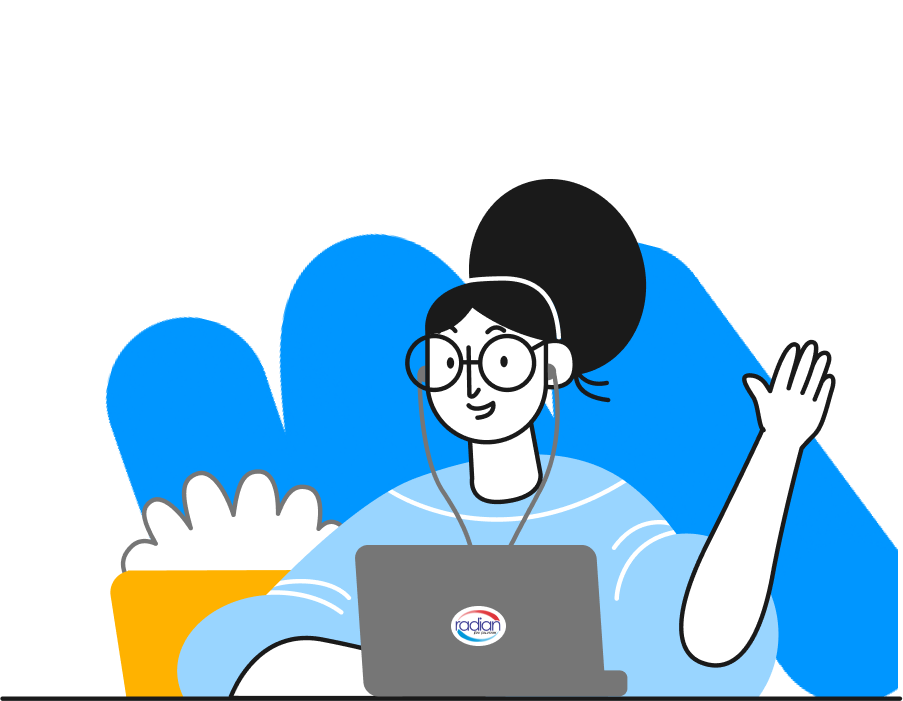
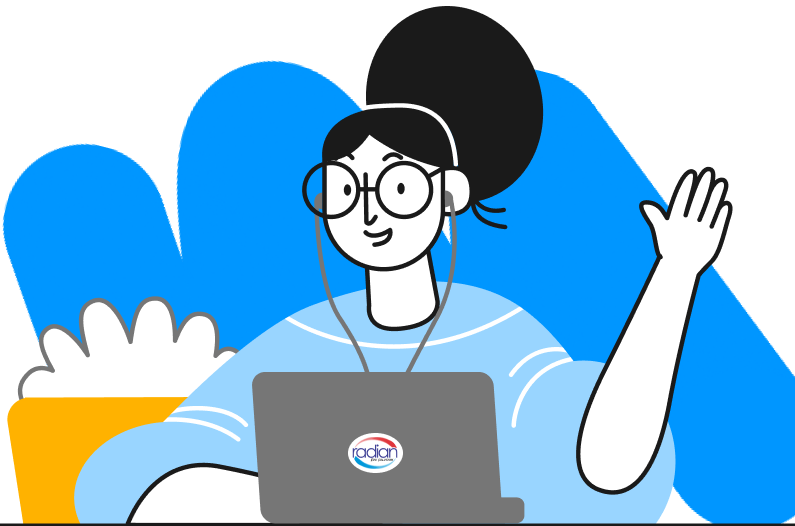
revisi product

diff --git a/resources/views/product/privat.blade.php b/resources/views/product/privat.blade.php
@@ -28,23 +28,26 @@
 <!-- navbar section end -->
 
 <!-- hero section start -->
-<section id="#" class="bg-primary">
+<section id="#" class="bg-blue-400">
     <div class="container">
         <div class="flex flex-wrap">
-            <div class="w-full self-center px-4 order-2 lg:order-1 lg:w-1/2 mb-32">
-                <h1 class="lg:text-6xl text-3xl font-bold text-white mt-32">Selamat Datang, Di Program Privat Garansi Radian.</h1>
+            <div class="w-full self-end px-4 order-2 lg:order-1 lg:w-1/2">
+                <h1 class="lg:text-6xl text-2xl font-bold text-white lg:mt-32 mt-3">Selamat Datang, Di Program Privat Garansi Radian.</h1>
                 <p class="text-lg font-normal text-white mt-9 mb-14">Les Privat bergaransi, tersedia beberapa program seperti kedokteran, PTN dan kedinasan dengan metode belajar terbaik guna Menuju Masa Depan yang Cemerlang dan Mulia.</p>
-                <a href="#pro-unggul" class="text-base font-normal text-black bg-white py-4 px-4 mb-32 rounded-lg">Uji Coba Gratis</a>
-                <a href="https://wa.me/+6281779007135?text=Halo%20radian%20%0A%0ANama%20%3A%20%0AAsal%20Kota%20%3A%20%0ASekolah%20dan%20Kelas%20%3A%20%0AOrang%20Tua%20%2F%20Siswa%20%3F%20%3A%0ASaya%20mengetahui%20program%20ini%20melalui%20website%20privatgaransi.radianedu.com%20" class="text-base font-normal text-white border border-white py-4 px-4 mb-32 rounded-lg">Lihat Program</a>
-            </div>
-
-            <div class="w-full self-end px-4 order-1 lg:order-2 lg:w-1/2">
-                <div class="relative mt-10">
-                    <img src="img/priv-hero.png" alt="" class="max-w-full max-h-full mx-auto lg:right-0">
+                <div class="flex px-2">
+                    <a href="#pro-unggul" class="lg:text-base text-sm font-normal text-black bg-white lg:py-4 py-2 lg:px-4 px-2 mb-32 mr-3 rounded-lg">Uji Coba Gratis</a>
+                    <a href="https://wa.me/+6281779007135?text=Halo%20radian%20%0A%0ANama%20%3A%20%0AAsal%20Kota%20%3A%20%0ASekolah%20dan%20Kelas%20%3A%20%0AOrang%20Tua%20%2F%20Siswa%20%3F%20%3A%0ASaya%20mengetahui%20program%20ini%20melalui%20website%20privatgaransi.radianedu.com%20" class="text-base font-normal text-white border border-white lg:py-4 py-2 lg:px-4 px-2 mb-32 rounded-lg">Lihat Program</a>
                 </div>
             </div>
+            <div class="w-full self-end px-4 order-1 lg:order-2 lg:w-1/2">
+                <div class="relative mt-10">
+                    <img src="img/priv-hero.png" alt="" class="max-w-full max-h-full w-full h-full mx-auto lg:right-0">
+                </div>
+            </div>            
         </div>
     </div>
+        
+
 </section>
 <!-- hero section end -->
 
@@ -53,7 +56,7 @@
     <div class="container">
         <div class="w-full px-4">
             <div class="max-w-2xl mx-auto text-center mb-16">
-                <h1 class="font-semibold lg:text-5xl text-3xl text-black">Program - Program Privat Garansi di Radian</h1>
+                <h1 class="font-semibold lg:text-5xl text-2xl text-black">Program - Program Privat Garansi di Radian</h1>
                 <p class="font-normal text-lg text-body pt-4">
                     Berikut ini merupakan program-program unggulan Radian Edu 
                 </p>
@@ -137,13 +140,13 @@
             
             <div class="w-full self-center px-4 lg:w-1/2">
                 <h5 class="text-lg font-semibold text-primary lg:mt-0 mt-3">PROGRAM PRIVAT</h5>
-                <h1 class="lg:text-5xl text-3xl font-semibold text-black max-w-sm mt-2">Program Garansi Kedokteran</h1>
+                <h1 class="lg:text-5xl text-2xl font-semibold text-black max-w-sm mt-2">Program Garansi Kedokteran</h1>
                 <p class="text-lg font-normal text-body pt-6 lg:mb-36 mb-7">
                     Motivasi dan semangat belajar yang tinggi, fokus terhadap tujuan utama serta pengajar pendamping yang profesional dan berpengalaman adalah kunci sukses lolos Kedokteran.
                 </p>
                 <div class="flex">
-                    <a href="https://wa.me/+6281779007135?text=Halo%20radian%20%0A%0ANama%20%3A%20%0AAsal%20Kota%20%3A%20%0ASekolah%20dan%20Kelas%20%3A%20%0AOrang%20Tua%20%2F%20Siswa%20%3F%20%3A%0ASaya%20mengetahui%20program%20ini%20melalui%20website%20privatgaransi.radianedu.com%20" class="text-base font-semibold text-white bg-primary rounded-lg py-3 px-2 lg:mt-14 text-center lg:mb-0 mb-2 mr-6 w-[151px] h-[48px]">DAFTAR PRIVAT</a>
-                    <a href="https://wa.me/+6281779007135?text=Halo%20radian%20%0A%0ANama%20%3A%20%0AAsal%20Kota%20%3A%20%0ASekolah%20dan%20Kelas%20%3A%20%0AOrang%20Tua%20%2F%20Siswa%20%3F%20%3A%0ASaya%20mengetahui%20program%20ini%20melalui%20website%20privatgaransi.radianedu.com%20" class="text-base font-semibold text-primary border border-primary py-3 px-2 rounded-lg lg:mt-14 text-center w-[151px] h-[48px]">KONSULTASI</a>
+                    <a href="https://wa.me/+6281779007135?text=Halo%20radian%20%0A%0ANama%20%3A%20%0AAsal%20Kota%20%3A%20%0ASekolah%20dan%20Kelas%20%3A%20%0AOrang%20Tua%20%2F%20Siswa%20%3F%20%3A%0ASaya%20mengetahui%20program%20ini%20melalui%20website%20privatgaransi.radianedu.com%20" class="lg:text-base text-xs font-semibold text-white bg-primary rounded-lg py-3 px-2 lg:mt-14 text-center self-center lg:mb-0 mb-2 mr-6 w-[151px] h-[48px]">DAFTAR PRIVAT</a>
+                    <a href="https://wa.me/+6281779007135?text=Halo%20radian%20%0A%0ANama%20%3A%20%0AAsal%20Kota%20%3A%20%0ASekolah%20dan%20Kelas%20%3A%20%0AOrang%20Tua%20%2F%20Siswa%20%3F%20%3A%0ASaya%20mengetahui%20program%20ini%20melalui%20website%20privatgaransi.radianedu.com%20" class="lg:text-base text-sm font-semibold text-primary border border-primary py-3 px-2 rounded-lg lg:mt-14 text-center w-[151px] h-[48px]">KONSULTASI</a>
                 </div>
                 
             </div>
@@ -158,11 +161,11 @@
         <div class="flex flex-wrap">
             <div class="w-full self-center px-4 order-2 lg:order-1 lg:w-1/2">
                 <h5 class="text-lg font-semibold text-primary mb-2 pt-10 lg:mt-0 mt-3">PROGRAM PRIVAT</h5>
-                <h1 class="lg:text-5xl text-3xl font-semibold text-black max-w-xl">Program Garansi Kedinasan</h1>
+                <h1 class="lg:text-5xl text-2xl font-semibold text-black max-w-xl">Program Garansi Kedinasan</h1>
                 <p class="text-lg font-normal text-body pt-6 lg:mb-36 mb-7">Program Garansi STAN/Kedinasan dengan sistem pembelajaran privat maupun group class. Siswa belajar dengan kondisi profesional, fokus terhadap tujuan dan pengajar pendamping yang kompeten untuk persiapan ujian masuk STAN</p>
                 <div class="flex">
-                    <a href="https://wa.me/+6281779007135?text=Halo%20radian%20%0A%0ANama%20%3A%20%0AAsal%20Kota%20%3A%20%0ASekolah%20dan%20Kelas%20%3A%20%0AOrang%20Tua%20%2F%20Siswa%20%3F%20%3A%0ASaya%20mengetahui%20program%20ini%20melalui%20website%20privatgaransi.radianedu.com%20" class="text-base font-semibold text-white bg-primary rounded-lg py-3 px-2 lg:mt-14 text-center lg:mb-0 mb-2 mr-6 w-[151px] h-[48px]">DAFTAR PRIVAT</a>
-                    <a href="https://wa.me/+6281779007135?text=Halo%20radian%20%0A%0ANama%20%3A%20%0AAsal%20Kota%20%3A%20%0ASekolah%20dan%20Kelas%20%3A%20%0AOrang%20Tua%20%2F%20Siswa%20%3F%20%3A%0ASaya%20mengetahui%20program%20ini%20melalui%20website%20privatgaransi.radianedu.com%20" class="text-base font-semibold text-primary border border-primary py-3 px-2 rounded-lg lg:mt-14 text-center w-[151px] h-[48px]">KONSULTASI</a>
+                    <a href="https://wa.me/+6281779007135?text=Halo%20radian%20%0A%0ANama%20%3A%20%0AAsal%20Kota%20%3A%20%0ASekolah%20dan%20Kelas%20%3A%20%0AOrang%20Tua%20%2F%20Siswa%20%3F%20%3A%0ASaya%20mengetahui%20program%20ini%20melalui%20website%20privatgaransi.radianedu.com%20" class="lg:text-base text-xs font-semibold text-white bg-primary rounded-lg py-3 px-2 lg:mt-14 text-center self-center lg:mb-0 mb-2 mr-6 w-[151px] h-[48px]">DAFTAR PRIVAT</a>
+                    <a href="https://wa.me/+6281779007135?text=Halo%20radian%20%0A%0ANama%20%3A%20%0AAsal%20Kota%20%3A%20%0ASekolah%20dan%20Kelas%20%3A%20%0AOrang%20Tua%20%2F%20Siswa%20%3F%20%3A%0ASaya%20mengetahui%20program%20ini%20melalui%20website%20privatgaransi.radianedu.com%20" class="lg:text-base text-sm font-semibold text-primary border border-primary py-3 px-2 rounded-lg lg:mt-14 text-center w-[151px] h-[48px]">KONSULTASI</a>
                 </div>
             </div>
 
@@ -187,13 +190,13 @@
             </div>
             <div class="w-full self-end px-4 lg:w-1/2">
                 <h5 class="text-lg font-semibold text-primary mb-2 lg:mt-0 mt-3">PROGRAM PRIVAT</h5>
-                <h1 class="lg:text-5xl text-3xl font-semibold text-black max-w-xl">Program Garansi PTN Favorit</h1>
+                <h1 class="lg:text-5xl text-2xl font-semibold text-black max-w-xl">Program Garansi PTN Favorit</h1>
                 <p class="text-lg font-normal text-body pt-6 lg:mb-36 mb-7">
                     Program Garansi PTN Favorit lulus UTBK-SBMPTN. Program belajar dengan privat maupun group class siswa akan belajar dengan kondisi belajar profesional, fokus terhadap tujuan dan pengajar pendamping yang kompeten untuk persiapan ujian masuk PTN Favorit : UI, ITB, IPB dan PTN Favorit lainnya.
                 </p>
                 <div class="flex">
-                    <a href="https://wa.me/+6281779007135?text=Halo%20radian%20%0A%0ANama%20%3A%20%0AAsal%20Kota%20%3A%20%0ASekolah%20dan%20Kelas%20%3A%20%0AOrang%20Tua%20%2F%20Siswa%20%3F%20%3A%0ASaya%20mengetahui%20program%20ini%20melalui%20website%20privatgaransi.radianedu.com%20" class="text-base font-semibold text-white bg-primary rounded-lg py-3 px-2 lg:mt-14 text-center lg:mb-0 mb-2 mr-6 w-[151px] h-[48px]">DAFTAR PRIVAT</a>
-                    <a href="https://wa.me/+6281779007135?text=Halo%20radian%20%0A%0ANama%20%3A%20%0AAsal%20Kota%20%3A%20%0ASekolah%20dan%20Kelas%20%3A%20%0AOrang%20Tua%20%2F%20Siswa%20%3F%20%3A%0ASaya%20mengetahui%20program%20ini%20melalui%20website%20privatgaransi.radianedu.com%20" class="text-base font-semibold text-primary border border-primary py-3 px-2 rounded-lg lg:mt-14 text-center w-[151px] h-[48px]">KONSULTASI</a>
+                    <a href="https://wa.me/+6281779007135?text=Halo%20radian%20%0A%0ANama%20%3A%20%0AAsal%20Kota%20%3A%20%0ASekolah%20dan%20Kelas%20%3A%20%0AOrang%20Tua%20%2F%20Siswa%20%3F%20%3A%0ASaya%20mengetahui%20program%20ini%20melalui%20website%20privatgaransi.radianedu.com%20" class="lg:text-base text-xs font-semibold text-white bg-primary rounded-lg py-3 px-2 lg:mt-14 text-center self-center lg:mb-0 mb-2 mr-6 w-[151px] h-[48px]">DAFTAR PRIVAT</a>
+                    <a href="https://wa.me/+6281779007135?text=Halo%20radian%20%0A%0ANama%20%3A%20%0AAsal%20Kota%20%3A%20%0ASekolah%20dan%20Kelas%20%3A%20%0AOrang%20Tua%20%2F%20Siswa%20%3F%20%3A%0ASaya%20mengetahui%20program%20ini%20melalui%20website%20privatgaransi.radianedu.com%20" class="lg:text-base text-sm font-semibold text-primary border border-primary py-3 px-2 rounded-lg lg:mt-14 text-center w-[151px] h-[48px]">KONSULTASI</a>
                 </div>
             </div>
         </div>
@@ -207,7 +210,7 @@
         <div class="flex flex-wrap">
             <div class="w-full self-center px-4 order-2 lg:order-1 lg:w-1/2">
                 <h5 class="text-lg font-semibold text-primary">PROGRAM UNGGULAN</h5>
-                <h1 class="text-5xl font-semibold text-black mt-2">Pelajari Dua Program Unggul di Radian</h1>
+                <h1 class="lg:text-5xl text-2xl font-semibold text-black mt-2">Pelajari Dua Program Unggul di Radian</h1>
                 <p class="text-lg font-normal text-body mt-6 mb-4">
                     Radian menyediakan program unggulan yaitu privat dan camp garansi. Sesuaikan dengan yang paling cocok untuk dirimu-
                 </p>
@@ -253,7 +256,7 @@
         <div class="w-full px-4">
             <div class="max-w-3xl mx-auto text-center mb-16">
                 <h5 class="text-lg font-semibold text-primary">KELEBIHAN PRIVAT GARANSI</h5>
-                <h1 class="lg:text-5xl text-3xl font-semibold text-black pt-2">Apa Keunggulan Les Privat di Radian?</h1>
+                <h1 class="lg:text-5xl text-2xl font-semibold text-black pt-2">Apa Keunggulan Les Privat di Radian?</h1>
                 <p class="text-lg font-normal text-body pt-2">Inilah alasan mengapa kamu harus ikut Program Privat Garansi dari Radian Edu</p>
             </div>
         </div>
@@ -378,7 +381,7 @@
         <div class="w-full px-4">
             <div class="max-w-3xl mx-auto text-center mb-16">
                 <h5 class="text-lg font-semibold text-primary">PROGRAM UNGGULAN</h5>
-                <h1 class="lg:text-5xl text-3xl font-semibold text-black">Kenali Lebih Dalam Tentang Les Privat di Radian</h1>
+                <h1 class="lg:text-5xl text-2xl font-semibold text-black">Kenali Lebih Dalam Tentang Les Privat di Radian</h1>
             </div>
         </div>
 
@@ -454,7 +457,7 @@
 
             <div class="w-full self-center px-4 lg:w-1/2">
                 <h5 class="text-lg font-semibold text-primary pt-10 mb-2">HOT PROMO</h5>
-                <h1 class="lg:text-5xl text-3xl font-semibold text-black max-w-sm">Investasi Untuk Program Les Privat</h1>
+                <h1 class="lg:text-5xl text-2xl font-semibold text-black max-w-sm">Investasi Untuk Program Les Privat</h1>
                 <h5 class="text-lg font-semibold text-body">Mulai Dari <span class="text-sd line-through">Rp. 7.500.000</span> </h5>
                 <h1 class="lg:text-5xl text-2xl font-semibold text-black mb-2">Rp. 3.750.000</h1>
                 <p class="text-lg font-normal text-body mb-12">Metode belajar intensif dengan pendamping profesional demi mencapai PTN impian. Pilihan tepat untukmu yang ingin mengefektifkan waktu belajar serta tenaga dengan hasil maksimal. Daftarkan dirimu sekarang dan dapatkan promo spesial</p>
@@ -469,26 +472,11 @@
 <section id="#" class="pt-16 mb-24">
     <div class="container">
         <div class="flex flex-wrap">
-            <div class="w-full px-4 mb-10 lg:w-1/3">
+            <div class="w-full px-4 mb-10 lg:w-1/2">
                 <h2 class="font-semibold text-black lg:text-5xl text-2xl mb-14">Apa Kata Mereka Tentang Radian</h2>
             </div>
-            <div class="w-full px-4 mb-10 lg:w-1/3">
+            <div class="w-full px-4 mb-10 lg:w-1/2">
                 <p class="font-normal text-body text-lg mb-14 max-w-md">Radian telah memberikan banyak impect untuk membantu para pelajar agar mencapai target dan tujuannya.</p>
-            </div>
-            <div class="w-full px-4 mb-10 lg:w-1/3">
-                <div class="w-full text-right">
-                    <button onclick="after()" class="p-3 rounded-full bg-slate-100 border border-gray-100 shadow-lg mr-5">
-                        <svg xmlns="http://www.w3.org/2000/svg" fill="none" viewBox="0 0 24 24" stroke-width="1.5" stroke="currentColor" class="w-6 h-6 text-primary">
-                            <path stroke-linecap="round" stroke-linejoin="round" d="M10.5 19.5L3 12m0 0l7.5-7.5M3 12h18" />
-                          </svg>                              
-                    </button>
-
-                    <button onclick="before()" class="p-3 rounded-full bg-slate-100 border border-gray-100 shadow-lg mr-5">
-                        <svg xmlns="http://www.w3.org/2000/svg" fill="none" viewBox="0 0 24 24" stroke-width="1.5" stroke="currentColor" class="w-6 h-6 text-primary">
-                            <path stroke-linecap="round" stroke-linejoin="round" d="M13.5 4.5L21 12m0 0l-7.5 7.5M21 12H3" />
-                          </svg>                              
-                    </button>
-                </div>
             </div>
         </div>
 
@@ -599,6 +587,22 @@
                 </ul>
             </div>
         </div>
+
+        <div class="flex">
+            <div class="w-full text-center">
+                <button onclick="after()" class="p-3 rounded-full bg-slate-100 border border-gray-100 shadow-lg mr-5">
+                    <svg xmlns="http://www.w3.org/2000/svg" fill="none" viewBox="0 0 24 24" stroke-width="1.5" stroke="currentColor" class="w-6 h-6 text-primary">
+                        <path stroke-linecap="round" stroke-linejoin="round" d="M10.5 19.5L3 12m0 0l7.5-7.5M3 12h18" />
+                      </svg>                              
+                </button>
+
+                <button onclick="before()" class="p-3 rounded-full bg-slate-100 border border-gray-100 shadow-lg mr-5">
+                    <svg xmlns="http://www.w3.org/2000/svg" fill="none" viewBox="0 0 24 24" stroke-width="1.5" stroke="currentColor" class="w-6 h-6 text-primary">
+                        <path stroke-linecap="round" stroke-linejoin="round" d="M13.5 4.5L21 12m0 0l-7.5 7.5M21 12H3" />
+                      </svg>                              
+                </button>
+            </div>
+        </div>
     </div>
 </section>
 <!-- testimoni section end  -->
@@ -609,7 +613,7 @@
         <div class="flex flex-wrap">
             <div class="w-full self-start px-4 lg:w-1/2">
                 <h5 class="text-lg font-semibold text-black mt-32">GALLERY</h5>
-                <h1 class="lg:text-5xl text-3xl font-semibold text-white max-w-sm mb-4">Gallery Radian Edu</h1>
+                <h1 class="lg:text-5xl text-2xl font-semibold text-white max-w-sm mb-4">Gallery Radian Edu</h1>
                 <p class="text-lg font-normal text-white max-w-xs mb-14">Seiring berjalannya waktu Radian Edu Solution telah membantu teman teman untuk masuk ke PTN impiannya.</p>
             </div>
 
@@ -635,7 +639,7 @@
     <div class="container">
         <div class="flex flex-wrap">
             <div class="w-full self-start lg:w-1/2">
-                <h1 class="text-black text-5xl font-semibold mt-44 mb-20">Masih Bingung Mulai Belajar Dari Mana?</h1>
+                <h1 class="text-black lg:text-5xl text-2xl font-semibold mt-44 mb-20">Masih Bingung Mulai Belajar Dari Mana?</h1>
             </div>
             <div class="w-full lg:text-right lg:w-1/2">
                 <button class="text-base text-white font-medium border bg-primary px-4 py-2 rounded-lg items-center lg:mt-52 mt-5" >

diff --git a/resources/views/product/supercamp.blade.php b/resources/views/product/supercamp.blade.php
@@ -38,8 +38,11 @@
                 </button>
                 <h1 class="font-bold text-2xl lg:text-3xl mt-1">Bimbingan Ujian Masuk Perguruan Tinggi Negri & Kedinasan Terbaik di Seluruh Indonesia</h1>
                 <p class="font-normal text-sm lg:text-lg text-text mt-4 mb-5">Bimbingan intensif karantina yang dilaksanakan 30 hari menjelang kegiatan UTBK berlangsung. Kami siap menjadi support sistem utama menghantarkan siswa/i lolos ke PTN impian.</p>
-                <a href="#pro-unggul" class="text-sm font-normal text-white bg-primary py-3 px-8 rounded-lg">Lihat Program</a>
-                <a href="https://wa.me/+6281779007135?text=Halo%20radian%20%0A%0ANama%20%3A%20%0AAsal%20Kota%20%3A%20%0ASekolah%20dan%20Kelas%20%3A%20%0AOrang%20Tua%20%2F%20Siswa%20%3F%20%3A%0ASaya%20mengetahui%20program%20ini%20melalui%20website%20supercamp%20" class="text-sm font-normal text-primary border-2 border-primary/100 py-3 px-8 rounded-lg">Konsultasi</a>
+                <div class="flex px-2">
+                    <a href="#pro-unggul" class="text-sm font-normal text-white bg-primary py-3 lg:px-8 px-4 mr-4 rounded-lg">Lihat Program</a>
+                    <a href="https://wa.me/+6281779007135?text=Halo%20radian%20%0A%0ANama%20%3A%20%0AAsal%20Kota%20%3A%20%0ASekolah%20dan%20Kelas%20%3A%20%0AOrang%20Tua%20%2F%20Siswa%20%3F%20%3A%0ASaya%20mengetahui%20program%20ini%20melalui%20website%20supercamp%20" class="text-sm font-normal text-primary border-2 border-primary/100 py-3 lg:px-8 px-4 rounded-lg">Konsultasi</a>
+                </div>
+                
             </div>
 
             <div class="w-full self-start px-4 lg:w-1/2 lg:order-2 order-1">
@@ -58,7 +61,7 @@
     <div class="container">
        <div class="w-full px-4">
             <div class="max-w-3xl mx-auto text-center items-center mb-16">
-                <h1 class="font-semibold text-5xl max-w-2xl text-black text-center">
+                <h1 class="font-semibold lg:text-5xl text-2xl max-w-2xl text-black text-center">
                     Program Supercamp Garansi Di Radian 
                 </h1>
                 <p class="font-normal text-lg text-sma md:text-lg pt-4">
@@ -134,7 +137,7 @@
 <!-- program section end  -->
 
 <!-- program kedokteran section start -->
-<section id="dokter" class="pt-16">
+<section id="dokter" class="pt-16 bg-[radial-gradient(ellipse_at_top_left,_var(--tw-gradient-stops))] from-blue-100 via-white to-white">
     <div class="container">
         <div class="flex flex-wrap">
             <div class="w-full self-start px-4 lg:w-1/2">
@@ -145,13 +148,13 @@
 
             <div class="w-full self-center px-4 lg:w-1/2">
                 <h5 class="text-lg font-semibold text-primary mb-2 pt-10 lg:mt-0 mt-3">PROGRAM</h5>
-                <h1 class="lg:text-5xl text-3xl font-semibold text-black max-w-lg">Program Garansi Kedokteran</h1>
+                <h1 class="lg:text-5xl text-2xl font-semibold text-black max-w-lg">Program Garansi Kedokteran</h1>
                 <p class="text-lg font-normal text-body pt-6 lg:mb-[143px] mb-7">
                     Wujudkan mimpi untuk memasuki Fakultas Kedokteran dengan mengikuti Supercamp Radian Edu Solution. Supercamp membantu siswa/i agar bisa masuk Fakultas Kedokteran Universitas favorit di Indonesia.
                 </p>
                 <div class="flex">
-                    <a href="https://wa.me/+6281779007135?text=Halo%20radian%20%0A%0ANama%20%3A%20%0AAsal%20Kota%20%3A%20%0ASekolah%20dan%20Kelas%20%3A%20%0AOrang%20Tua%20%2F%20Siswa%20%3F%20%3A%0ASaya%20mengetahui%20program%20ini%20melalui%20website%20privatgaransi.radianedu.com%20" class="text-base font-semibold text-white bg-primary rounded-lg py-3 px-2 lg:mt-14 text-center lg:mb-0 mb-2 mr-6 w-[151px] h-[48px]">DAFTAR PRIVAT</a>
-                    <a href="https://wa.me/+6281779007135?text=Halo%20radian%20%0A%0ANama%20%3A%20%0AAsal%20Kota%20%3A%20%0ASekolah%20dan%20Kelas%20%3A%20%0AOrang%20Tua%20%2F%20Siswa%20%3F%20%3A%0ASaya%20mengetahui%20program%20ini%20melalui%20website%20privatgaransi.radianedu.com%20" class="text-base font-semibold text-primary border border-primary py-3 px-2 rounded-lg lg:mt-14 text-center w-[151px] h-[48px]">KONSULTASI</a>
+                    <a href="https://wa.me/+6281779007135?text=Halo%20radian%20%0A%0ANama%20%3A%20%0AAsal%20Kota%20%3A%20%0ASekolah%20dan%20Kelas%20%3A%20%0AOrang%20Tua%20%2F%20Siswa%20%3F%20%3A%0ASaya%20mengetahui%20program%20ini%20melalui%20website%20privatgaransi.radianedu.com%20" class="lg:text-base text-xs font-semibold text-white bg-primary rounded-lg py-3 px-2 lg:mt-14 text-center self-center lg:mb-0 mb-2 mr-6 w-[151px] h-[48px]">DAFTAR PRIVAT</a>
+                    <a href="https://wa.me/+6281779007135?text=Halo%20radian%20%0A%0ANama%20%3A%20%0AAsal%20Kota%20%3A%20%0ASekolah%20dan%20Kelas%20%3A%20%0AOrang%20Tua%20%2F%20Siswa%20%3F%20%3A%0ASaya%20mengetahui%20program%20ini%20melalui%20website%20privatgaransi.radianedu.com%20" class="lg:text-base text-sm font-semibold text-primary border border-primary py-3 px-2 rounded-lg lg:mt-14 text-center w-[151px] h-[48px]">KONSULTASI</a>
                 </div>
             </div>
         </div>
@@ -160,17 +163,17 @@
 <!-- program kedokteran section end -->
 
 <!-- program kedinasan section start -->
-<section id="dinas" class="pt-16">
+<section id="dinas" class="pt-16 bg-gradient-to-tl from-red-100 via-white to-white">
     <div class="container">
         <div class="flex flex-wrap">
             <div class="w-full self-center px-4 order-2 lg:order-1 lg:w-1/2">
                 <h5 class="text-lg font-semibold text-primary mb-2 pt-10 lg:mt-0 mt-3">PROGRAM</h5>
-                <h1 class="lg:text-5xl text-3xl font-semibold text-black max-w-lg">Program Garansi Kedinasan</h1>
+                <h1 class="lg:text-5xl text-2xl font-semibold text-black max-w-lg">Program Garansi Kedinasan</h1>
                 <p class="text-lg font-normal text-body pt-6 lg:mb-[143px] mb-7">
                     Radian Edu Solution menggaransi siswa/i agar bisa masuk ke Sekolah Kedinasan di Indonesia. Dengan berbagai fasilitas yang disediakan, Radian Edu Solution berkomitmen untuk mencerahkan masa depan siswa/i Indonesia.
                 </p>
                 <div class="flex">
-                    <a href="https://wa.me/+6281779007135?text=Halo%20radian%20%0A%0ANama%20%3A%20%0AAsal%20Kota%20%3A%20%0ASekolah%20dan%20Kelas%20%3A%20%0AOrang%20Tua%20%2F%20Siswa%20%3F%20%3A%0ASaya%20mengetahui%20program%20ini%20melalui%20website%20privatgaransi.radianedu.com%20" class="text-base font-semibold text-white bg-primary rounded-lg py-3 px-2 lg:mt-14 text-center lg:mb-0 mb-2 mr-6 w-[151px] h-[48px]">DAFTAR PRIVAT</a>
+                    <a href="https://wa.me/+6281779007135?text=Halo%20radian%20%0A%0ANama%20%3A%20%0AAsal%20Kota%20%3A%20%0ASekolah%20dan%20Kelas%20%3A%20%0AOrang%20Tua%20%2F%20Siswa%20%3F%20%3A%0ASaya%20mengetahui%20program%20ini%20melalui%20website%20privatgaransi.radianedu.com%20" class="lg:text-base text-xs font-semibold text-white bg-primary rounded-lg py-3 px-2 lg:mt-14 text-center lg:mb-0 mb-2 mr-6 w-[151px] h-[48px]">DAFTAR PRIVAT</a>
                     <a href="https://wa.me/+6281779007135?text=Halo%20radian%20%0A%0ANama%20%3A%20%0AAsal%20Kota%20%3A%20%0ASekolah%20dan%20Kelas%20%3A%20%0AOrang%20Tua%20%2F%20Siswa%20%3F%20%3A%0ASaya%20mengetahui%20program%20ini%20melalui%20website%20privatgaransi.radianedu.com%20" class="text-base font-semibold text-primary border border-primary py-3 px-2 rounded-lg lg:mt-14 text-center w-[151px] h-[48px]">KONSULTASI</a>
                 </div>
             </div>
@@ -186,7 +189,7 @@
 <!-- program kedinasan section end -->
 
 <!-- program ptn section start -->
-<section id="ptn" class="pt-16 pb-14">
+<section id="ptn" class="pt-16 pb-14 bg-gradient-to-bl from-red-100 via-white to-blue-100">
     <div class="container">
         <div class="flex flex-wrap">
             <div class="w-full self-start px-4 lg:w-1/2">
@@ -196,12 +199,12 @@
             </div>
             <div class="w-full self-start px-4 lg:w-1/2">
                 <h5 class="text-lg font-semibold text-primary mb-2 pt-10 lg:mt-0 mt-3">PROGRAM</h5>
-                <h1 class="lg:text-5xl text-3xl font-semibold text-black max-w-lg">Program Garansi PTN Favorit</h1>
+                <h1 class="lg:text-5xl text-2xl font-semibold text-black max-w-lg">Program Garansi PTN Favorit</h1>
                 <p class="text-lg font-normal text-body pt-6 lg:mb-[143px] mb-7">
                     Garansi PTN favorit di Radian Edu Solution menjamin siswa/i untuk bisa masuk di PTN favorit di Indonesia, antara lain UI, UGM, ITB, IPB, ITS, UNAIR, UB dll.
                 </p>
                 <div class="flex">
-                    <a href="https://wa.me/+6281779007135?text=Halo%20radian%20%0A%0ANama%20%3A%20%0AAsal%20Kota%20%3A%20%0ASekolah%20dan%20Kelas%20%3A%20%0AOrang%20Tua%20%2F%20Siswa%20%3F%20%3A%0ASaya%20mengetahui%20program%20ini%20melalui%20website%20privatgaransi.radianedu.com%20" class="text-base font-semibold text-white bg-primary rounded-lg py-3 px-2 lg:mt-14 text-center lg:mb-0 mb-2 mr-6 w-[151px] h-[48px]">DAFTAR PRIVAT</a>
+                    <a href="https://wa.me/+6281779007135?text=Halo%20radian%20%0A%0ANama%20%3A%20%0AAsal%20Kota%20%3A%20%0ASekolah%20dan%20Kelas%20%3A%20%0AOrang%20Tua%20%2F%20Siswa%20%3F%20%3A%0ASaya%20mengetahui%20program%20ini%20melalui%20website%20privatgaransi.radianedu.com%20" class="lg:text-base text-xs font-semibold text-white bg-primary rounded-lg py-3 px-2 lg:mt-14 text-center lg:mb-0 mb-2 mr-6 w-[151px] h-[48px]">DAFTAR PRIVAT</a>
                     <a href="https://wa.me/+6281779007135?text=Halo%20radian%20%0A%0ANama%20%3A%20%0AAsal%20Kota%20%3A%20%0ASekolah%20dan%20Kelas%20%3A%20%0AOrang%20Tua%20%2F%20Siswa%20%3F%20%3A%0ASaya%20mengetahui%20program%20ini%20melalui%20website%20privatgaransi.radianedu.com%20" class="text-base font-semibold text-primary border border-primary py-3 px-2 rounded-lg lg:mt-14 text-center w-[151px] h-[48px]">KONSULTASI</a>
                 </div>
             </div>
@@ -216,7 +219,7 @@
         <div class="flex flex-wrap">
             <div class="w-full self-center px-4 order-2 lg:order-1 lg:w-1/2">
                 <h5 class="text-lg font-semibold text-primary">PROGRAM UNGGULAN</h5>
-                <h1 class="lg:text-5xl text-3xl font-semibold text-black mt-2">Pelajari Dua Program Unggul di Radian</h1>
+                <h1 class="lg:text-5xl text-2xl font-semibold text-black mt-2">Pelajari Dua Program Unggul di Radian</h1>
                 <p class="text-lg font-normal text-body mt-6">Kenali lebih dalam program-program bergaransi Radian Edu Solution. Program tersebut antara lain Privat Garansi dan Camp Garansi. 
                 </p>
                 <div class="flex flex-wrap pt-4">
@@ -263,7 +266,7 @@
         <div class="w-full px-4">
             <div class="max-w-3xl mx-auto text-center mb-16">
                 <h5 class="text-lg font-semibold text-primary">KELEBIHAN PRIVAT GARANSI</h5>
-                <h1 class="lg:text-5xl text-3xl font-semibold text-black pt-2">Apa Keunggulan Camp Garansi di Radian?</h1>
+                <h1 class="lg:text-5xl text-2xl font-semibold text-black pt-2">Apa Keunggulan Camp Garansi di Radian?</h1>
                 <p class="text-lg font-normal text-body pt-2">Inilah alasan mengapa kamu harus ikut program Supercamp Garansi di Radian Edu!</p>
             </div>
         </div>
@@ -376,7 +379,7 @@
         <div class="w-full px-4">
             <div class="max-w-3xl mx-auto text-center mb-16">
                 <h5 class="text-lg font-semibold text-primary">PROGRAM UNGGULAN</h5>
-                <h1 class="lg:text-5xl text-3xl font-semibold text-black">Kenali Lebih Dalam Tentang Les Privat di Radian</h1>
+                <h1 class="lg:text-5xl text-2xl font-semibold text-black">Kenali Lebih Dalam Tentang Les Privat di Radian</h1>
             </div>
         </div>
         <div class="relative w-full overflow-hidden">
@@ -458,7 +461,7 @@
 
             <div class="w-full self-center px-4 lg:w-1/2">
                 <h5 class="text-lg font-semibold text-primary pt-10 mb-2">HOT PROMO</h5>
-                <h1 class="lg:text-5xl text-3xl font-semibold text-black max-w-sm">Investasi Program Camp Garansi</h1>
+                <h1 class="lg:text-5xl text-2xl font-semibold text-black max-w-sm">Investasi Program Camp Garansi</h1>
                 <h5 class="text-lg font-semibold text-body">Mulai Dari <span class="text-sd line-through">Rp. 7.500.000</span> </h5>
                 <h1 class="lg:text-5xl text-2xl font-semibold text-black mb-2">Rp. 5.000.000</h1>
                 <p class="text-lg font-normal text-body mb-12">Ikuti supercamp mulai dari 5 juta saja dengan berbagai fasilitas menarik, yang membuat anak bapak/ibu nyaman dalam sesi pembelajaran. tersedia berbagai paket yaitu PASTI, MULIA dan CEMERLANG.</p>
@@ -474,7 +477,7 @@
     <div class="container">
         <div class="flex flex-wrap">
             <div class="w-full px-4 mb-10 lg:w-1/3">
-                <h2 class="font-semibold text-black lg:text-5xl text-3xl mb-14">Apa Kata Mereka Tentang Radian</h2>
+                <h2 class="font-semibold text-black lg:text-5xl text-2xl mb-14">Apa Kata Mereka Tentang Radian</h2>
             </div>
             <div class="w-full px-4 mb-10 lg:w-1/3">
                 <p class="font-normal text-body text-lg mb-14 max-w-md">Radian telah memberikan banyak impect untuk membantu para pelajar agar mencapai target dan tujuannya.</p>
@@ -594,10 +597,10 @@
 <section id="#" class="bg-slate-100">
     <div class="container">
         <div class="flex flex-wrap">
-            <div class="w-full self-start px-4 lg:w-1/2">
+            <div class="w-full self-center px-4 lg:w-1/2">
                 <h5 class="text-lg font-semibold text-primary mt-32">GALLERY</h5>
-                <h1 class="lg:text-5xl text-3xl font-semibold text-black max-w-sm mb-4">Gallery Radian Edu</h1>
-                <p class="text-lg font-normal text-body max-w-xs">Seiring berjalannya waktu Radian Edu Solution telah membantu teman-teman untuk masuk ke PTN impiannya.</p>
+                <h1 class="lg:text-5xl text-2xl font-semibold text-black max-w-sm mb-4">Gallery Radian Edu</h1>
+                <p class="text-lg font-normal text-body max-w-xs mb-5">Seiring berjalannya waktu Radian Edu Solution telah membantu teman-teman untuk masuk ke PTN impiannya.</p>
             </div>
 
             <div class="w-full self-center px-4 lg:w-1/2">
@@ -622,7 +625,7 @@
     <div class="container">
         <div class="flex flex-wrap">
             <div class="w-full self-start lg:w-1/2">
-                <h1 class="text-black lg:text-5xl text-3xl font-semibold mt-44 mb-20">Masih Bingung Mulai Belajar Dari Mana?</h1>
+                <h1 class="text-black lg:text-5xl text-2xl font-semibold mt-44 mb-20">Masih Bingung Mulai Belajar Dari Mana?</h1>
             </div>
             <div class="w-full lg:text-right lg:w-1/2">
                 <button class="text-base text-white font-medium border bg-primary px-4 py-2 rounded-lg items-center lg:mt-52 mt-5"><a href="https://wa.me/+6281779007135?text=Halo%20radian%20%0A%0ANama%20%3A%20%0AAsal%20Kota%20%3A%20%0ASekolah%20dan%20Kelas%20%3A%20%0AOrang%20Tua%20%2F%20Siswa%20%3F%20%3A%0ASaya%20mengetahui%20program%20ini%20melalui%20website%20supercamp%20">Daftar Sekarang</a></button>
